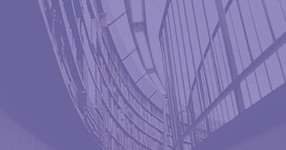
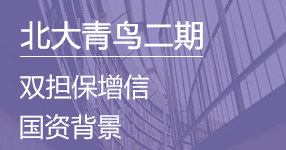
温度金服wap首页图片替换

diff --git a/fe/src/wap/index/css/index.css b/fe/src/wap/index/css/index.css
@@ -189,18 +189,12 @@ section .featured ul li:first-child {
 section .featured ul li:first-child a {
   display: block;
   height: 4.13333333rem;
-  width: 85%;
+  width: 100%;
   background: url("../images/bgProject_01.png") no-repeat center;
   background-size: 100% 100%;
-  padding-left: 15%;
   font-size: 0.42666667rem;
   line-height: 0.72rem;
   overflow: hidden;
-}
-section .featured ul li:first-child a p:first-child {
-  font-size: 0.58666667rem;
-  margin-top: 0.93333333rem;
-  margin-bottom: 0.26666667rem;
 }
 section .featured ul li:last-child a:first-child {
   display: block;
@@ -211,18 +205,6 @@ section .featured ul li:last-child a:first-child {
   margin-bottom: 0.13333333rem;
   color: #fff;
 }
-section .featured ul li:last-child a:first-child div {
-  padding-left: 0.2rem;
-  font-size: 0.34666667rem;
-  line-height: 0.50666667rem;
-  overflow: hidden;
-}
-section .featured ul li:last-child a:first-child div p:first-child {
-  font-size: 0.4rem;
-  width: 2.46666667rem;
-  border-bottom: 1px solid #fff;
-  margin: 0.2rem 0;
-}
 section .featured ul li:last-child a:last-child {
   display: block;
   height: 2rem;
@@ -230,18 +212,6 @@ section .featured ul li:last-child a:last-child {
   background: url("../images/bgProject_03.png") no-repeat center;
   background-size: 100% 100%;
   color: #fff;
-}
-section .featured ul li:last-child a:last-child div {
-  padding-left: 0.29333333rem;
-  font-size: 0.34666667rem;
-  line-height: 0.50666667rem;
-  overflow: hidden;
-}
-section .featured ul li:last-child a:last-child div p:first-child {
-  font-size: 0.4rem;
-  width: 2.46666667rem;
-  border-bottom: 1px solid #fff;
-  margin: 0.2rem 0;
 }
 .invest {
   background-color: #fff;

diff --git a/fe/src/wap/index/index.html b/fe/src/wap/index/index.html
@@ -39,23 +39,11 @@
         <p class="project">精选项目</p>
         <ul class="clearfix">
             <li class="lf">
-                <a href="">
-                    <p>中盛海润1号</p>
-                    <p>全球光伏20强</p>
-                    <p>AA国企担保</p>
-                </a>
+                <a href=""></a>
             </li>
             <li class="rg">
-                <a href=""><div>
-                    <p>三都国资</p>
-                    <p>人大决议+政府批复</p>
-                    <p>财政承诺+国企担保</p>
-                </div></a>
-                <a href=""><div>
-                    <p>北大青鸟二期</p>
-                    <p>双担保增信</p>
-                    <p>国资背景</p>
-                </div></a>
+                <a href=""></a>
+                <a href=""></a>
             </li>
         </ul>
     </div>
